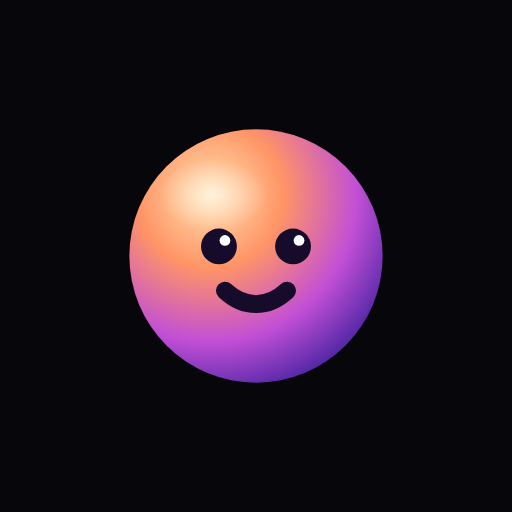
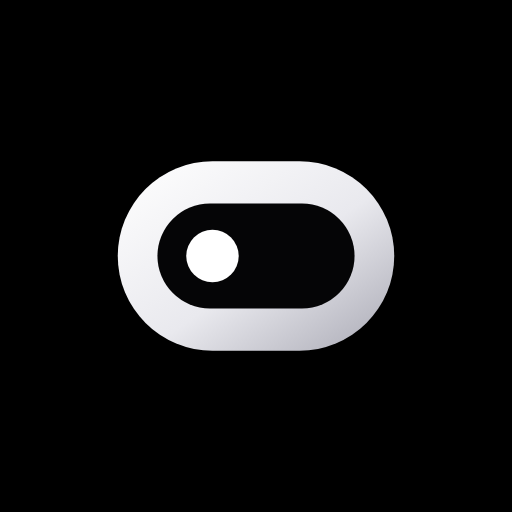
Monochrome visor mark
Claude-Session: https://claude.ai/code/session_01YPaHsRV6mKCSUiGWDpNDAN

Changed region(s): [[0.2188, 0.25, 0.7812, 0.75]]

diff --git a/index.html b/index.html
@@ -84,9 +84,9 @@ svg{display:block}
 .answer th,.answer td{border:1px solid var(--line);padding:6px 10px;text-align:left}
 .answer .err{color:var(--danger)}
 .thinking{display:inline-flex;align-items:center;gap:10px;color:var(--muted);font-size:15px}
-.thinking .face{width:22px;height:22px;color:var(--fg)}
-.face .eye{transform-box:fill-box;transform-origin:center;animation:blink 3.2s ease-in-out infinite}
-.thinking .face .eye{animation-duration:1.4s}
+.thinking .face{width:26px;height:26px;color:var(--fg)}
+.face .pupil{animation:look 7s ease-in-out infinite}
+.thinking .face .pupil{animation:scan 1.1s ease-in-out infinite alternate}
 .shimmer{background:linear-gradient(90deg,var(--faint) 0%,var(--fg-soft) 50%,var(--faint) 100%);background-size:200% 100%;-webkit-background-clip:text;background-clip:text;color:transparent;animation:shimmer 1.6s linear infinite}
 
 .tools{display:flex;gap:2px;margin-left:-8px;opacity:.85}
@@ -96,7 +96,7 @@ svg{display:block}
 /* empty state */
 .thread-inner:has(.hero){min-height:100%}
 .hero{flex:1;display:flex;flex-direction:column;align-items:center;justify-content:center;text-align:center;gap:18px;padding-block:24px 40px;min-height:100%}
-.hero .mark{width:76px;height:76px;color:var(--fg);filter:drop-shadow(0 0 34px rgba(214,110,190,.45));animation:breathe 5s ease-in-out infinite}
+.hero .mark{width:84px;height:84px;color:var(--fg);filter:drop-shadow(0 0 30px rgba(255,255,255,.2));}
 .hero h1{font-family:var(--display);font-weight:400;font-size:clamp(34px,9vw,46px);line-height:1.05;letter-spacing:-.01em;margin:0;text-wrap:balance}
 .hero h1 i{color:var(--fg-soft)}
 .hero p{margin:0;color:var(--muted);font-size:15px;max-width:34ch}
@@ -128,7 +128,7 @@ svg{display:block}
   padding-top:max(14px,env(safe-area-inset-top,0px));padding-bottom:max(14px,env(safe-area-inset-bottom,0px));padding-left:max(12px,env(safe-area-inset-left,0px));padding-right:12px}
 .drawer.on{transform:none}
 .brand{display:flex;align-items:center;gap:10px;padding:6px 8px 16px}
-.brand svg{width:26px;height:26px;color:var(--fg)}
+.brand svg{width:30px;height:30px;color:var(--fg)}
 .brand b{font-family:var(--display);font-weight:400;font-size:26px;letter-spacing:.005em}
 .new-chat{display:flex;align-items:center;gap:10px;padding:12px 14px;border-radius:14px;border:1px solid var(--line);font-size:15px;font-weight:500;margin-bottom:14px}
 .new-chat:hover{background:var(--raised)}
@@ -188,15 +188,16 @@ textarea.input{resize:vertical;min-height:120px;line-height:1.5}
 @keyframes rise{from{opacity:0;transform:translateY(6px)}to{opacity:1;transform:none}}
 @keyframes spin{to{transform:rotate(360deg)}}
 @keyframes shimmer{from{background-position:200% 0}to{background-position:-200% 0}}
-@keyframes blink{0%,44%,52%,100%{transform:scaleY(1)}48%{transform:scaleY(.12)}}
+@keyframes look{0%,34%{transform:translateX(0)}42%,66%{transform:translateX(6.8px)}74%,100%{transform:translateX(0)}}
+@keyframes scan{from{transform:translateX(0)}to{transform:translateX(6.8px)}}
 @keyframes breathe{0%,100%{transform:scale(1);opacity:.9}50%{transform:scale(1.06);opacity:1}}
 @media (prefers-reduced-motion:reduce){*{animation:none!important;transition:none!important}}
 </style>
 </head>
 <body>
 <svg width="0" height="0" style="position:absolute" aria-hidden="true">
-  <defs><radialGradient id="vg" cx="32%" cy="26%" r="85%"><stop offset="0" stop-color="#ffe2b0"/><stop offset=".34" stop-color="#ff9466"/><stop offset=".68" stop-color="#c24fd6"/><stop offset="1" stop-color="#3a1f9c"/></radialGradient><radialGradient id="vh" cx="50%" cy="50%" r="50%"><stop offset="0" stop-color="#fff" stop-opacity=".55"/><stop offset="1" stop-color="#fff" stop-opacity="0"/></radialGradient></defs>
-  <symbol id="i-face" viewBox="0 0 24 24"><circle cx="12" cy="12" r="10.6" fill="url(#vg)"/><ellipse cx="8.4" cy="6.9" rx="4.6" ry="3" fill="url(#vh)"/><circle class="eye" cx="8.9" cy="11.2" r="1.5" fill="#170b2b"/><circle class="eye" cx="15.1" cy="11.2" r="1.5" fill="#170b2b"/><circle cx="9.4" cy="10.7" r=".45" fill="#fff"/><circle cx="15.6" cy="10.7" r=".45" fill="#fff"/><path d="M9.4 14.9c1.6 1.5 3.6 1.5 5.2 0" stroke="#170b2b" stroke-width="1.5" stroke-linecap="round" fill="none"/></symbol>
+  <defs><linearGradient id="vg" x1="0" y1="0" x2="1" y2="1"><stop offset="0" stop-color="#ffffff"/><stop offset=".55" stop-color="#e9e9ee"/><stop offset="1" stop-color="#a9a9b4"/></linearGradient></defs>
+  <symbol id="i-face" viewBox="0 0 24 24"><rect x="1.2" y="4.6" width="21.6" height="14.8" rx="7.4" fill="url(#vg)"/><rect x="4.3" y="7.9" width="15.4" height="8.2" rx="4.1" fill="#050506"/><circle class="pupil" cx="8.6" cy="12" r="2.05" fill="#fff"/></symbol>
   <symbol id="i-menu" viewBox="0 0 24 24"><path d="M4 8h16M4 16h10" stroke="currentColor" stroke-width="1.8" stroke-linecap="round" fill="none"/></symbol>
   <symbol id="i-new" viewBox="0 0 24 24"><path d="M12 5v14M5 12h14" stroke="currentColor" stroke-width="1.8" stroke-linecap="round" fill="none"/></symbol>
   <symbol id="i-edit" viewBox="0 0 24 24"><path d="M4 20h4L19 9l-4-4L4 16v4zM14 6l4 4" stroke="currentColor" stroke-width="1.7" stroke-linejoin="round" fill="none"/></symbol>
@@ -331,7 +332,7 @@ function save(){ try { localStorage.setItem(STORE, JSON.stringify(S)); } catch(e
 
 const uid = () => Math.random().toString(36).slice(2,10) + Date.now().toString(36);
 const chat = () => S.chats.find(c => c.id === S.current) || null;
-const FACE = cls => `<svg class="face ${cls||""}" viewBox="0 0 24 24" aria-hidden="true"><circle cx="12" cy="12" r="10.6" fill="url(#vg)"/><ellipse cx="8.4" cy="6.9" rx="4.6" ry="3" fill="url(#vh)"/><circle class="eye" cx="8.9" cy="11.2" r="1.5" fill="#170b2b"/><circle class="eye" cx="15.1" cy="11.2" r="1.5" fill="#170b2b"/><circle cx="9.4" cy="10.7" r=".45" fill="#fff"/><circle cx="15.6" cy="10.7" r=".45" fill="#fff"/><path d="M9.4 14.9c1.6 1.5 3.6 1.5 5.2 0" stroke="#170b2b" stroke-width="1.5" stroke-linecap="round" fill="none"/></svg>`;
+const FACE = cls => `<svg class="face ${cls||""}" viewBox="0 0 24 24" aria-hidden="true"><rect x="1.2" y="4.6" width="21.6" height="14.8" rx="7.4" fill="url(#vg)"/><rect x="4.3" y="7.9" width="15.4" height="8.2" rx="4.1" fill="#050506"/><circle class="pupil" cx="8.6" cy="12" r="2.05" fill="#fff"/></svg>`;
 const modelById = id => S.models.find(m => m.id === id) || {id, name:id.split("/").pop().replace(/:free$/,""), note:id};
 
 /* ---------- markdown ---------- */
